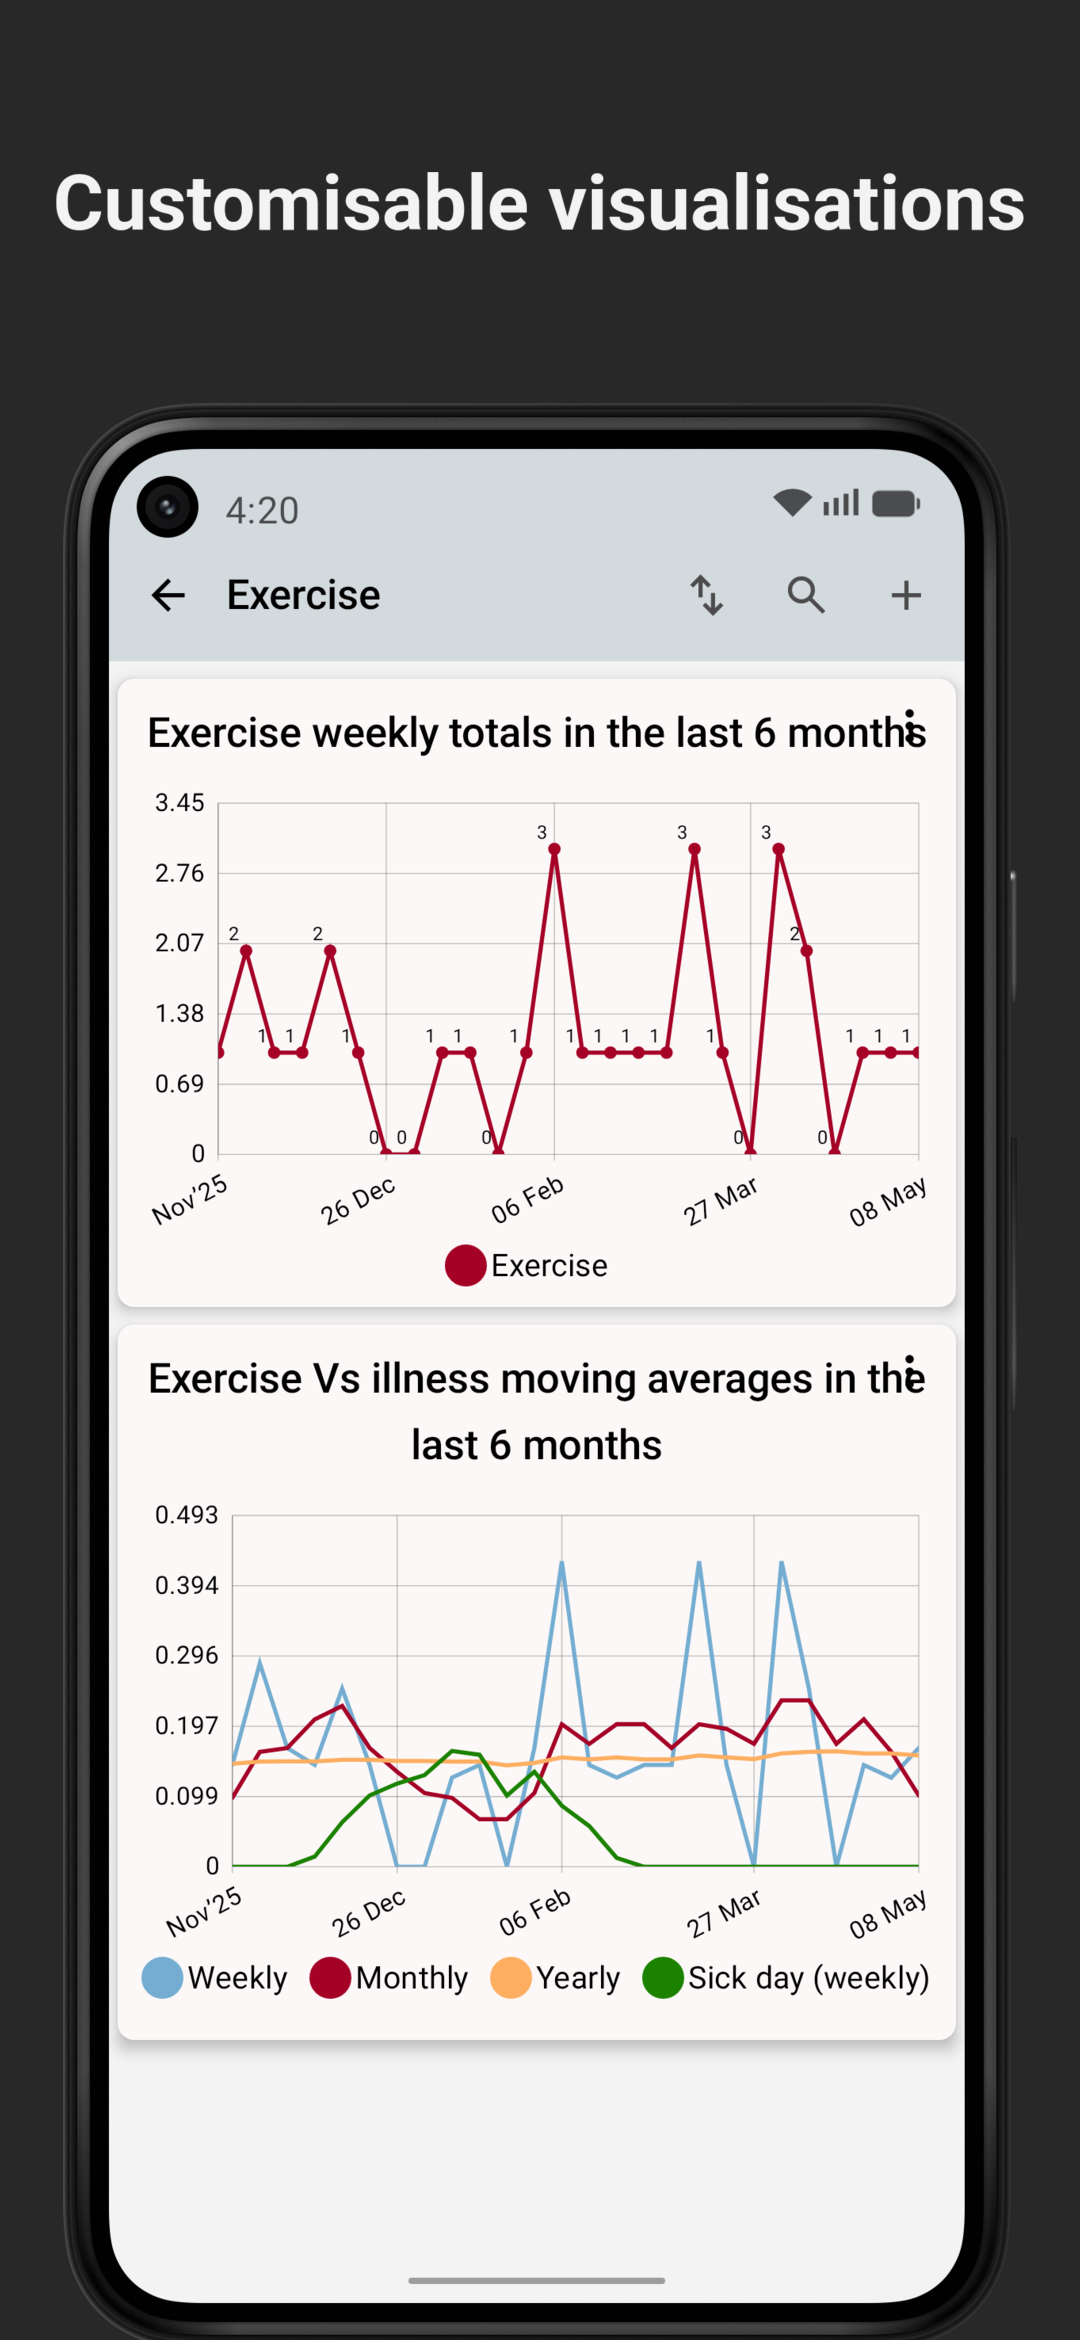
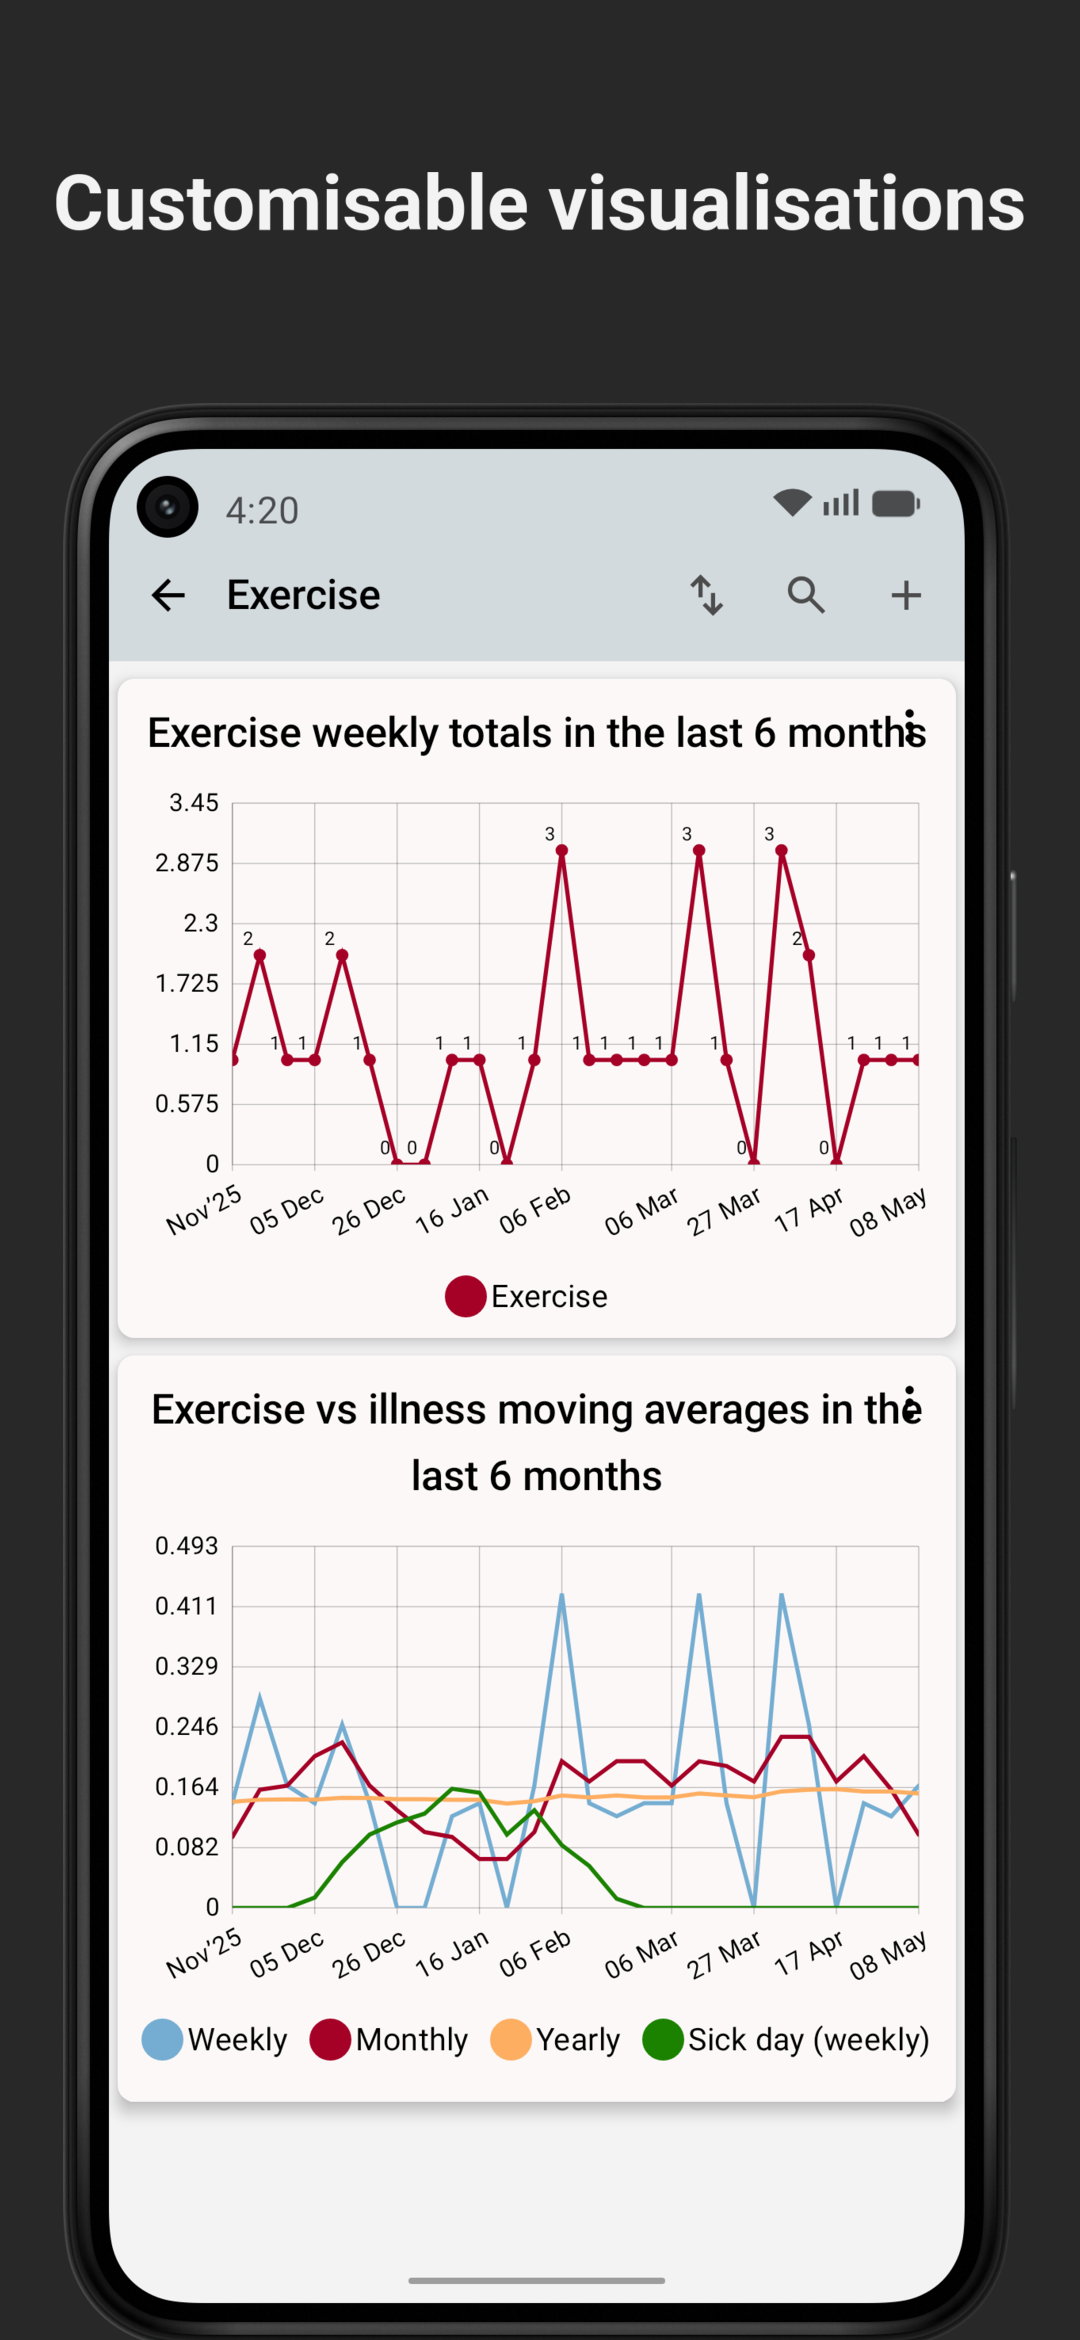
Support multilingual Play Store screenshot captions

Changed region(s): [[0.0917, 0.3432, 0.8861, 0.9047]]

diff --git a/scripts/play_store_screenshots.py b/scripts/play_store_screenshots.py
@@ -4,6 +4,8 @@
 from __future__ import annotations
 
 import argparse
+import json
+import os
 import shutil
 import subprocess
 import sys
@@ -21,6 +23,8 @@ GENERATOR = TRANSLATIONS_DIR / "generate_playstore_screenshot_tests.py"
 REFERENCE_DIR = PROJECT_ROOT / "app/app/src/screenshotTestPlayStoreDebug/reference"
 FRAMEIT_ROOT = PROJECT_ROOT / "fastlane/frameit"
 FRAMEIT_SCREENSHOTS = FRAMEIT_ROOT / "screenshots"
+FRAMEIT_CONFIG = FRAMEIT_SCREENSHOTS / "Framefile.json"
+FRAMEIT_BUNDLED_FONT = FRAMEIT_SCREENSHOTS / "fonts/Roboto-Bold.ttf"
 METADATA_ROOT = PROJECT_ROOT / "fastlane/metadata/android"
 SCREENSHOT_COUNT = 8
 
@@ -70,7 +74,6 @@ def render_screenshots(target: TranslationTarget, output_dir: Path) -> list[Path
         [
             "./gradlew",
             ":app:updatePlayStoreDebugScreenshotTest",
-            "--rerun-tasks",
         ],
         cwd=PROJECT_ROOT / "app",
         check=True,
@@ -101,6 +104,54 @@ def raw_screenshots(
     return paths
 
 
+def caption_font(captions: Path) -> Path:
+    caption_text = captions.read_text(encoding="utf-8")
+    characters = sorted(
+        {character for character in caption_text if not character.isspace()},
+        key=ord,
+    )
+    charset = " ".join(f"{ord(character):04x}" for character in characters)
+    try:
+        matches = subprocess.run(
+            [
+                "fc-match",
+                "-f",
+                "%{family}\t%{file}\n",
+                f"Roboto:charset={charset}:weight=bold",
+            ],
+            check=True,
+            capture_output=True,
+            text=True,
+        ).stdout.splitlines()
+        family, filename = matches[0].split("\t", 1)
+    except (
+        FileNotFoundError,
+        IndexError,
+        subprocess.CalledProcessError,
+        ValueError,
+    ) as error:
+        raise RuntimeError(
+            "Could not select a font for the translated Frameit captions. "
+            "Install fontconfig and the Google Noto fonts."
+        ) from error
+    font = FRAMEIT_BUNDLED_FONT if "Roboto" in family else Path(filename)
+    if not font.is_file():
+        raise FileNotFoundError(f"Matched caption font does not exist: {font}")
+    return font.resolve()
+
+
+def write_scoped_frameit_config(raw_dir: Path, font: Path) -> Path:
+    config = json.loads(FRAMEIT_CONFIG.read_text(encoding="utf-8"))
+    for text_style in ("keyword", "title"):
+        config["default"][text_style]["font"] = os.path.relpath(font, raw_dir)
+    config["default"]["background"] = os.path.relpath(
+        (FRAMEIT_ROOT / "background.jpg").resolve(), raw_dir
+    )
+    destination = raw_dir / "Framefile.json"
+    destination.write_text(json.dumps(config, indent=2) + "\n", encoding="utf-8")
+    return destination
+
+
 def frame_screenshots(raw_images: list[Path], locale: str, destination: Path) -> list[Path]:
     raw_dir = raw_images[0].parent
     captions = raw_dir / "title.strings"
@@ -112,18 +163,24 @@ def frame_screenshots(raw_images: list[Path], locale: str, destination: Path) ->
     ]
     for framed_source in framed_sources:
         framed_source.unlink(missing_ok=True)
-    subprocess.run(
-        [
-            "bundle",
-            "exec",
-            "fastlane",
-            "run",
-            "frameit",
-            f"path:{raw_dir}",
-        ],
-        cwd=PROJECT_ROOT,
-        check=True,
-    )
+    font = caption_font(captions)
+    scoped_config = write_scoped_frameit_config(raw_dir, font)
+    print(f"Using {font.name} for {locale} captions", flush=True)
+    try:
+        subprocess.run(
+            [
+                "bundle",
+                "exec",
+                "fastlane",
+                "run",
+                "frameit",
+                f"path:{raw_dir}",
+            ],
+            cwd=PROJECT_ROOT,
+            check=True,
+        )
+    finally:
+        scoped_config.unlink(missing_ok=True)
     destination.mkdir(parents=True, exist_ok=True)
     outputs: list[Path] = []
     for number, source in enumerate(framed_sources, 1):

diff --git a/scripts/translations/tests/test_play_store_screenshots.py b/scripts/translations/tests/test_play_store_screenshots.py
@@ -1,9 +1,11 @@
 from __future__ import annotations
 
 import importlib.util
+import json
 import tempfile
 import unittest
 from pathlib import Path
+from unittest.mock import patch
 
 
 SCRIPT = Path(__file__).resolve().parents[2] / "play_store_screenshots.py"
@@ -58,6 +60,64 @@ class PlayStoreScreenshotsTest(unittest.TestCase):
             self.assertEqual(
                 play_store_screenshots.SCREENSHOT_COUNT,
                 len(play_store_screenshots.raw_screenshots("de-DE", root)),
+            )
+
+    def test_caption_font_uses_fontconfig_fallback_for_non_latin_text(self) -> None:
+        with tempfile.TemporaryDirectory() as temp:
+            captions = Path(temp) / "title.strings"
+            captions.write_text('"1" = "日本語";\n', encoding="utf-8")
+            fallback = Path(temp) / "NotoSansCJK-Bold.ttc"
+            fallback.touch()
+            completed = unittest.mock.Mock(stdout=f"Noto Sans CJK JP\t{fallback}\n")
+
+            with patch.object(
+                play_store_screenshots.subprocess,
+                "run",
+                return_value=completed,
+            ) as run:
+                selected = play_store_screenshots.caption_font(captions)
+
+            self.assertEqual(fallback.resolve(), selected)
+            pattern = run.call_args.args[0][-1]
+            self.assertIn("65e5", pattern)
+            self.assertIn("672c", pattern)
+
+    def test_scoped_frameit_config_uses_relative_font_and_background(self) -> None:
+        with tempfile.TemporaryDirectory() as temp:
+            root = Path(temp)
+            config_path = root / "Framefile.json"
+            font = root / "font.ttf"
+            font.touch()
+            raw_dir = root / "ja-JP"
+            raw_dir.mkdir()
+
+            with (
+                patch.object(play_store_screenshots, "FRAMEIT_CONFIG", config_path),
+                patch.object(play_store_screenshots, "FRAMEIT_ROOT", root),
+            ):
+                config_path.write_text(
+                    json.dumps(
+                        {
+                            "default": {
+                                "keyword": {"font": "old"},
+                                "title": {"font": "old"},
+                                "background": "old",
+                            }
+                        }
+                    ),
+                    encoding="utf-8",
+                )
+                destination = play_store_screenshots.write_scoped_frameit_config(
+                    raw_dir, font.resolve()
+                )
+
+            generated = json.loads(destination.read_text(encoding="utf-8"))
+            self.assertEqual(
+                "../font.ttf", generated["default"]["title"]["font"]
+            )
+            self.assertEqual(
+                "../background.jpg",
+                generated["default"]["background"],
             )
 
 

diff --git a/docs/knowledge-base/build-commands.md b/docs/knowledge-base/build-commands.md
@@ -130,6 +130,7 @@ make tutorial-record                       # Render and resize tutorial images
 
 ### Prerequisites
 - Ruby + bundler + fastlane (`bundle install` from project root)
+- Fontconfig plus Google Noto fonts for non-Latin Frameit captions
 
 The Play Store path does not use an emulator or Shot. The screenshot content
 and fixtures live in
@@ -158,6 +159,14 @@ the upload-ready names into
 `fastlane/metadata/android/<Play locale>/images/phoneScreenshots/`. Generated
 images are ignored except for the English metadata screenshots, which remain
 tracked for use by the README and F-Droid metadata.
+
+Before invoking Frameit, the Python orchestrator asks fontconfig for a bold font
+covering the actual caption characters. Latin captions retain the bundled
+Roboto font; scripts it cannot represent use an installed Noto or other
+fontconfig fallback that covers the complete caption. A temporary
+locale-scoped Framefile applies that font and is removed after framing. If
+selection fails, install fontconfig and the Google Noto font families rather
+than accepting blank caption glyphs.
 
 Uploading is a separate external operation and never renders or frames images:
 
